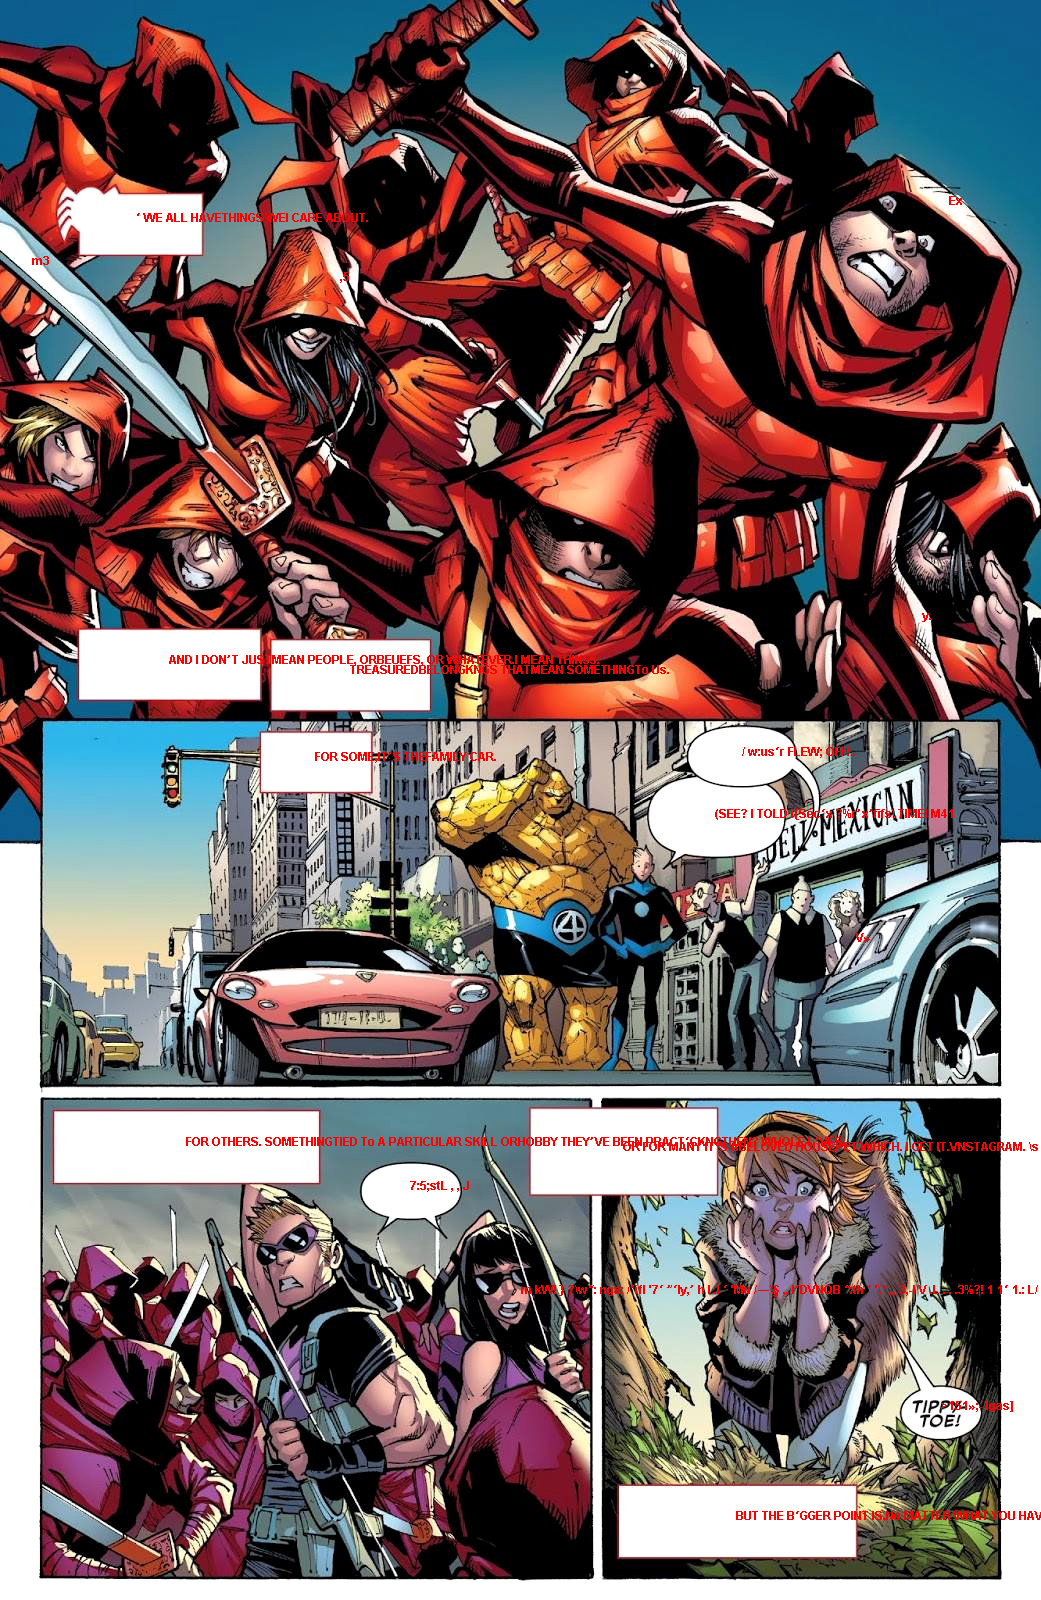
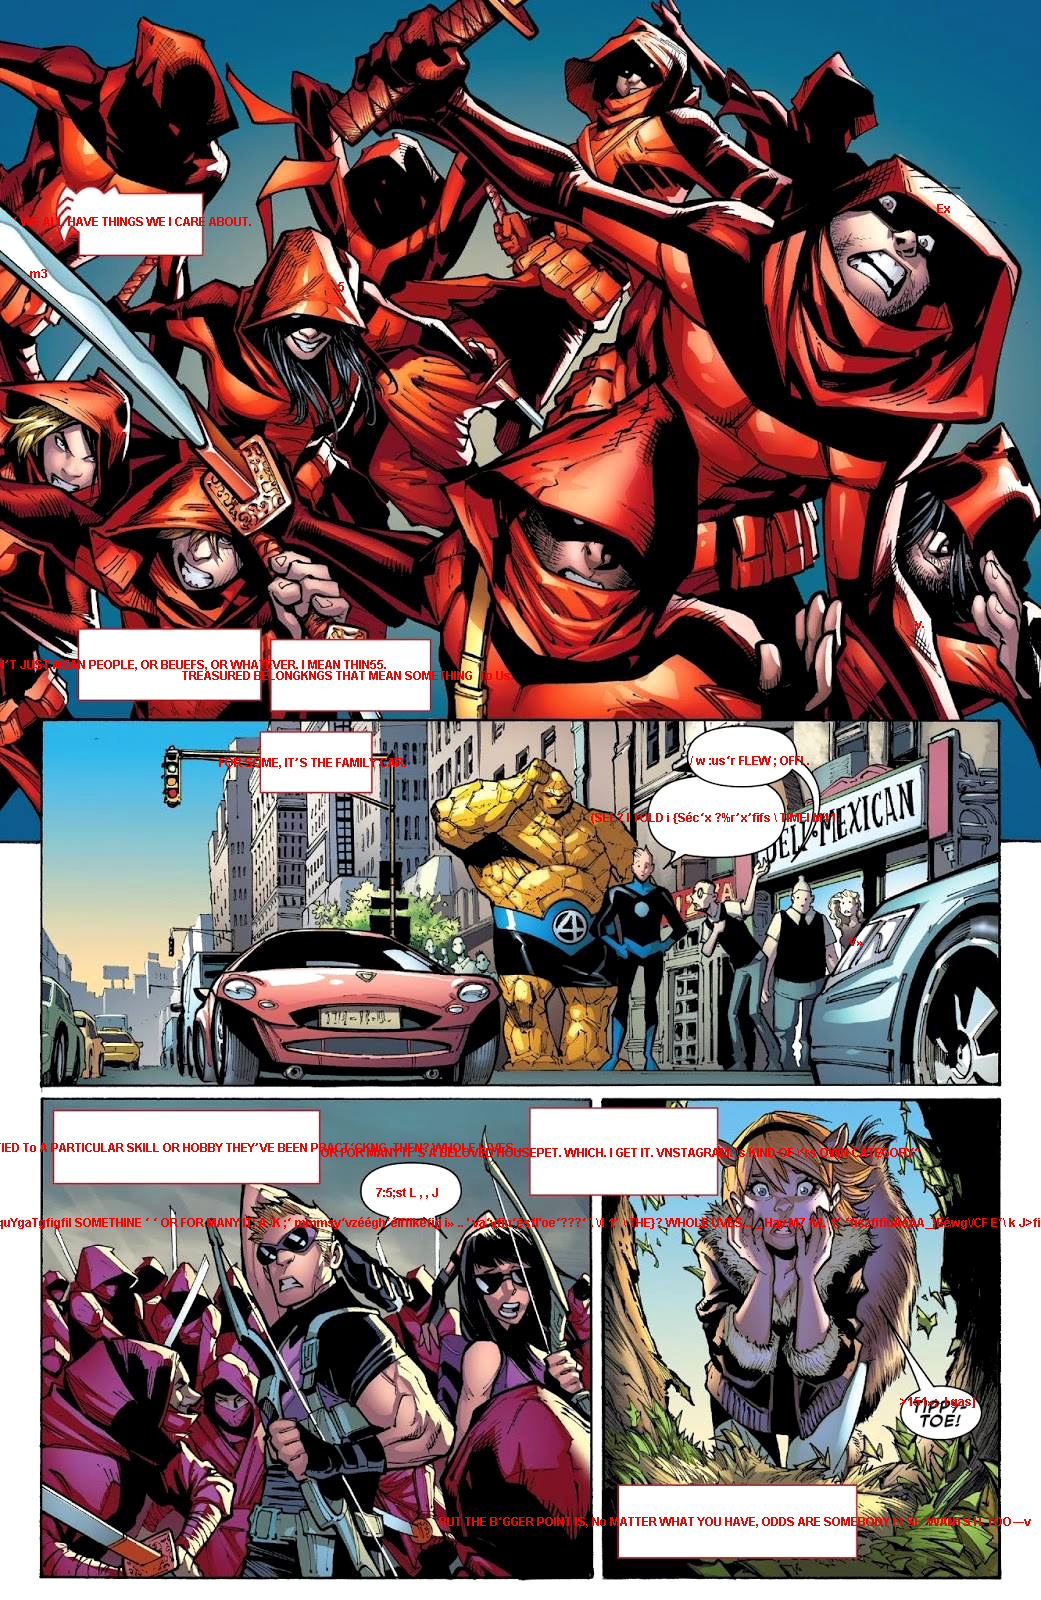
- Improved addText() and findText()
findText()
+ Stopped empty strings from being added to the list of strings to
translate.

addText()
+ Strings are now center aligned when drawn.

diff --git a/Comicbook-Translator/src/main/java/ImageEditor.java b/Comicbook-Translator/src/main/java/ImageEditor.java
@@ -1,6 +1,8 @@
 package main.java;
 import java.awt.Color;
 import java.awt.Font;
+import java.awt.FontMetrics;
+import java.awt.Graphics;
 import java.awt.Graphics2D;
 import java.awt.Point;
 import java.awt.Rectangle;
@@ -34,24 +36,22 @@ import net.sourceforge.tess4j.Word;
 
 public class ImageEditor {
 
-	private BufferedImage img;
 	private String path;
-
 	private BufferedImage modifiedImg;
-	private BufferedImage gsImg;
 
 	private ArrayList<String> words;
 	private ArrayList<Shape> contourBounds;
 	private ArrayList<Point> contourCenters;
+	private ArrayList<Shape> textBounds;
 
 	public ImageEditor(String path) {
 		words = new ArrayList<String>();
 		contourBounds = new ArrayList<Shape>();
 		contourCenters = new ArrayList<Point>();
+		textBounds = new ArrayList<Shape>();
 		try {
 			this.path = path;
 			modifiedImg = ImageIO.read(new File(path));
-			img = ImageIO.read(new File(path));
 		} catch (IOException e) {
 			// TODO Auto-generated catch block
 			e.printStackTrace();
@@ -70,14 +70,14 @@ public class ImageEditor {
 		// Import image
 		Mat src = Imgcodecs.imread(path, Imgcodecs.CV_LOAD_IMAGE_GRAYSCALE);
 		
-		// Pre process image for contour recognition
+		// Pre process image for contour recognition. Blur to remove noise then threshold
 		Imgproc.blur(src, src, new Size(3, 3));
 		Mat blurred = new Mat();
 		Mat thresh = new Mat();
 		Imgproc.GaussianBlur(src, blurred, new Size(5,5), 0.0);
 		Imgproc.threshold(blurred, thresh, 250, 255, Imgproc.THRESH_BINARY);
 
-		List<MatOfPoint> contours = new ArrayList<>();
+		List<MatOfPoint> contours = new ArrayList<MatOfPoint>();
 		Mat hierarchy = new Mat();
 		Imgproc.findContours(thresh, contours, hierarchy, Imgproc.RETR_EXTERNAL, Imgproc.CHAIN_APPROX_SIMPLE);
 
@@ -85,15 +85,19 @@ public class ImageEditor {
 
 		// Handle contours
 		for(MatOfPoint c : contours){
+			// Obtain the center point of the contour using moments
 			Moments m = Imgproc.moments(c);
 			double cX = m.m10 / m.m00;
 			double cY = m.m01 / m.m00;
 			Point p = new Point((int) cX, (int) cY);
 			contourCenters.add(p);
+			
+			// Obtain the bounding rectangle of the contour
 			Rect rect = Imgproc.boundingRect(c);
 			Rectangle r = new Rectangle(rect.x, rect.y, rect.width, rect.height);
 			contourBounds.add(r);
 
+			// Fill the contours on top of the image
 			Imgproc.drawContours(original, contours, -2, new Scalar(0, 0, 0));
 			Imgproc.fillPoly(original, contours, new Scalar(255, 255, 255));
 		}
@@ -101,6 +105,8 @@ public class ImageEditor {
 		modifiedImg = Mat2BufferedImage(original); // convert the matrix to BufferedImage and work with this 
 	}
 
+	// Find the text inside the contourBounds
+	// We can apply some NLP here to avoid adding invalid strings that may be obtained by the OCR when reading the image
 	public void findText() throws IOException, TesseractException{
 		ITesseract it = new Tesseract();
 		BufferedImage bi = ImageIO.read(new File(path));
@@ -108,8 +114,12 @@ public class ImageEditor {
 
 		for(int i = 0; i < contourBounds.size(); i++){
 			String s = it.doOCR(bi, (Rectangle) contourBounds.get(i));
-			words.add(s);
-			System.out.println(s);
+			if (s.trim().length() > 0) {
+				s = s.replaceAll("\n", " ");
+				textBounds.add(contourBounds.get(i));
+				words.add(s);
+				System.out.println(s);
+			}
 		}
 	}
 
@@ -122,13 +132,35 @@ public class ImageEditor {
 		Graphics2D graphic = modifiedImg.createGraphics();
 		graphic.setColor(Color.RED);
 		graphic.setFont(tf);
-		for(int i = 0; i < contourBounds.size(); i++){
-			Point location = contourCenters.get(i);
-			graphic.drawString(translatedWords.get(i), (int)location.getX(), (int)location.getY());
+		for(int i = 0; i < textBounds.size(); i++){
+			// Point location = contourCenters.get(i);
+			drawCenteredString(graphic, translatedWords.get(i), (Rectangle) textBounds.get(i), tf);
+			// graphic.drawString(translatedWords.get(i), (int)location.getX(), (int)location.getY());
 		}
 		// saveImgAsFile("jpg", "translated"); // only necessary if you want to save the new file now 
 	}
+	
+	/**
+	 * Draw a String centered in the middle of a Rectangle.
+	 *
+	 * @param g The Graphics instance.
+	 * @param text The String to draw.
+	 * @param rect The Rectangle to center the text in.
+	 */
+	public void drawCenteredString(Graphics g, String text, Rectangle rect, Font font) {
+	    // Get the FontMetrics
+	    FontMetrics metrics = g.getFontMetrics(font);
+	    // Determine the X coordinate for the text
+	    int x = rect.x + (rect.width - metrics.stringWidth(text)) / 2;
+	    // Determine the Y coordinate for the text (note we add the ascent, as in java 2d 0 is top of the screen)
+	    int y = rect.y + ((rect.height - metrics.getHeight()) / 2) + metrics.getAscent();
+	    // Set the font
+	    g.setFont(font);
+	    // Draw the String
+	    g.drawString(text, x, y);
+	}
 
+	// Write the image out
 	public void saveImgAsFile(String type, String extension){
 		try {
 			System.out.println("writing to file");
@@ -143,6 +175,7 @@ public class ImageEditor {
 		return words;
 	}
 
+	// Convert the image matrix into a BufferedImage 
 	static BufferedImage Mat2BufferedImage(Mat matrix)throws Exception {        
 		MatOfByte mob=new MatOfByte();
 		Imgcodecs.imencode(".jpg", matrix, mob);
@@ -152,6 +185,7 @@ public class ImageEditor {
 		return bi;
 	}
 	
+	// Main function to translate the page
 	public static void translatePage(String path, String destLang){
 		ImageEditor ie = new ImageEditor(path);
 
